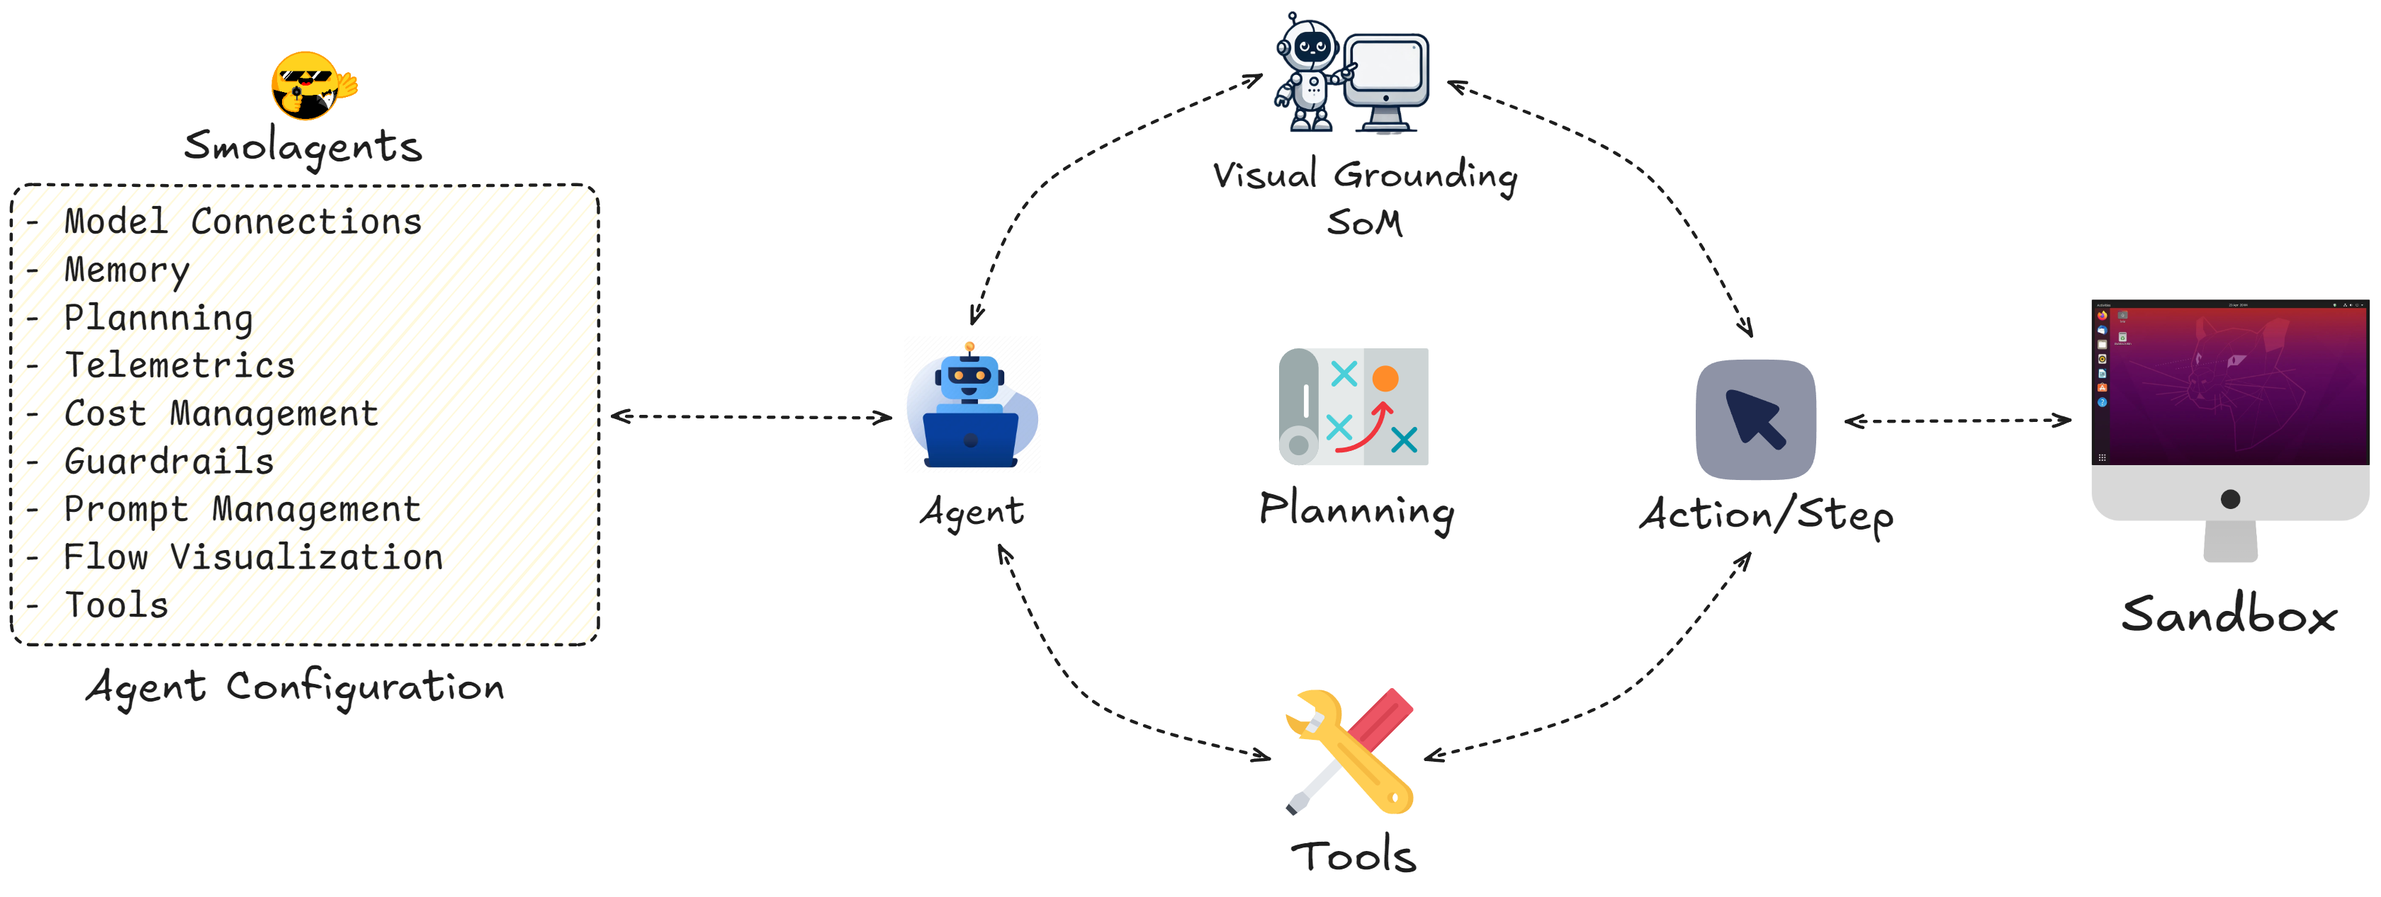
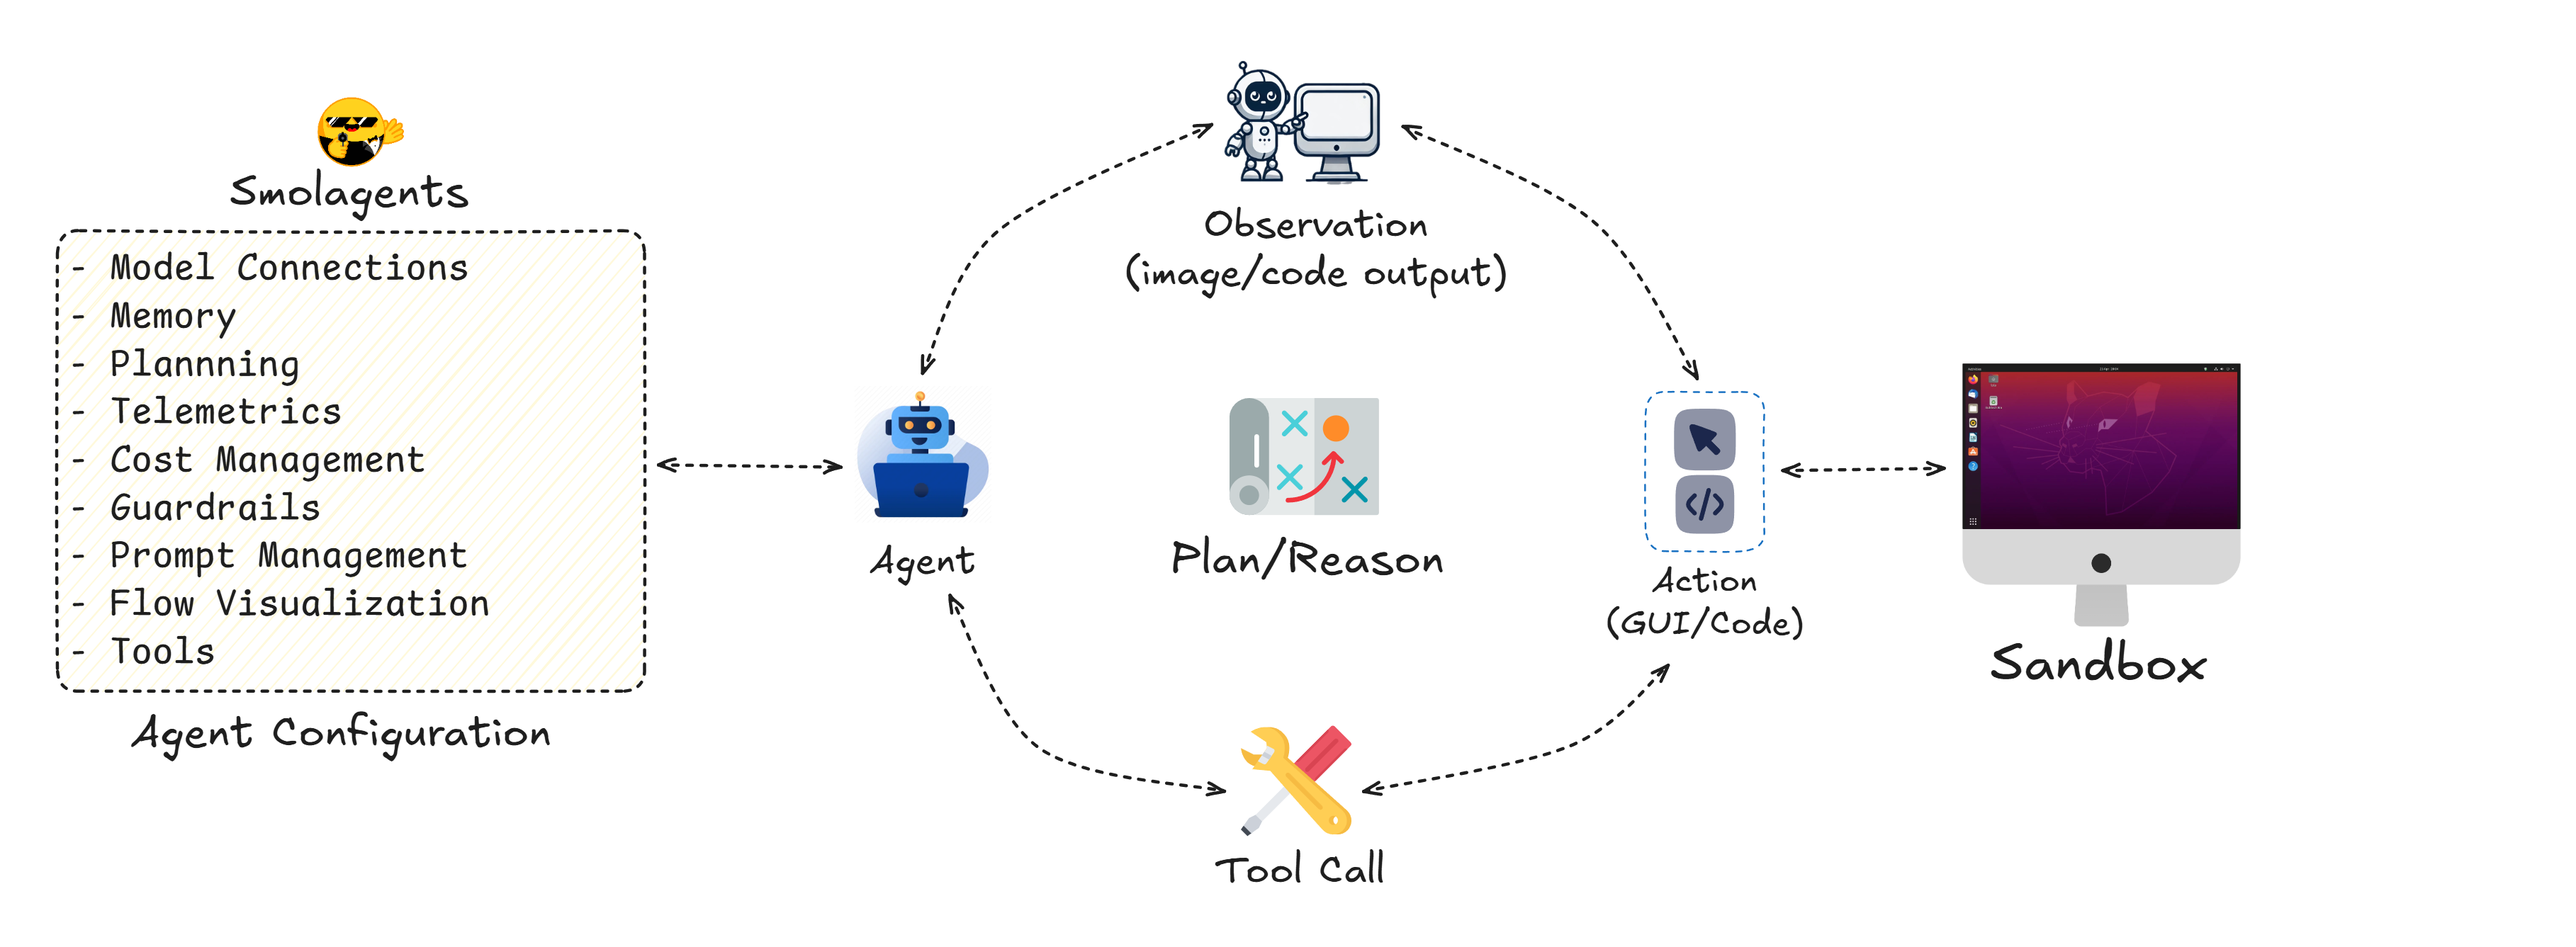
working

diff --git a/README.md b/README.md
@@ -1,40 +1,83 @@
-# Spider2-V: Benchmarking Multimodal Agents in Data Science and Engineering Workflows
+# Enhancing Multimodal GUI AI-Agent Benchmarking
 
-This repository supports work on **[Spider2-V](https://spider2-v.github.io/)**, a benchmark designed to evaluate and advance multimodal agent automation in data science and engineering workflows. Spider2-V focuses on real-world applications within professional data environments, aiming to pave the way for vision-language model (VLM)-based agents to efficiently automate complex tasks across various tools and stages of the data lifecycle.
+[![License: MIT](https://img.shields.io/badge/License-MIT-yellow.svg)](https://github.com/melchiorhering/Automating-DS-DE-Workflows/blob/main/LICENSE) [![Python 3.12+](https://img.shields.io/badge/python-3.12+-blue.svg)](https://www.python.org/) [![Docker](https://img.shields.io/badge/Docker-2496ED?logo=docker&logoColor=white)](https://www.docker.com/) [![FastAPI](https://img.shields.io/badge/FastAPI-009688?logo=fastapi&logoColor=white)](https://fastapi.tiangolo.com/) [![Jupyter](https://img.shields.io/badge/Jupyter-F37626?logo=jupyter&logoColor=white)](https://jupyter.org/) [![Hugging Face](https://img.shields.io/badge/Hugging%20Face-Spaces-yellow)](https://huggingface.co/datasets/melchiorhering/vms)
 
-## Abstract
+This repository contains the source code and experimental setup for **"Enhancing Multimodal GUI AI-Agent Benchmarking,"** a modular, code-centric framework designed to improve upon the foundation of the [Spider2-V benchmark](https://spider2-v.github.io/).
 
-Data science and engineering workflows span diverse stages, from data warehousing to orchestration, utilizing tools such as BigQuery, dbt, and Airbyte. As VLMs gain sophistication in multimodal understanding and code generation, the potential for VLM-based agents to automate these workflows has grown. By generating SQL queries, Python code, and GUI operations, such agents can both enhance expert productivity and democratize large-scale data analysis.
+While powerful benchmarks like Spider2-V provide realistic tasks for evaluating AI agents, their often monolithic designs can hinder research due to poor developer experience (Dev-X), limited observability, and a lack of reproducibility. This framework, built upon the lightweight and code-centric **[Smolagents](https://github.com/huggingface/smolagents)** library, addresses these challenges directly.
 
-**Spider2-V** introduces the first multimodal agent benchmark dedicated to professional data workflows, covering:
+## 🖼 Framework Overview
 
-- **494 tasks** derived from real-world, enterprise use cases within authentic computer environments.
-- **20 enterprise-level applications**, where tasks assess an agent's ability to perform data-centric operations, including code writing and GUI navigation.
+The proposed architecture decouples the agent's logic from the task environment. It uses a stack of modern, open-source tools to create isolated, observable, and reproducible sandboxes for the agent to operate in.
 
-The project balances realistic simulation with evaluation simplicity through:
+![Framework Overview Diagram](media/overview-framework.png)
 
-- Automatic configurations for streamlined task setup.
-- Task-specific metrics to accurately measure performance.
+## ✨ Key Features
 
-Comprehensive documentation supplements multimodal agents for these professional data applications, highlighting the challenges agents face in automating full workflows. Empirical findings reveal that existing VLM agents currently automate only 14.0% of workflows successfully. Even with guidance, these agents struggle with knowledge-intensive GUI actions (16.2% success rate) and tasks within cloud-hosted workspaces (10.6% success rate).
+This framework introduces several key improvements over the baseline implementation:
 
-## Master Thesis Goals
+-   **Powered by Smolagents:** Built on the simple, code-first Smolagents framework, enabling transparent agent logic and easy integration with the broader open-source AI ecosystem (e.g., Hugging Face).
+-   **Modular & Decoupled Architecture:** Built on **Docker**, **QEMU**, and **SSH**, the framework isolates the agent, its tools, and the sandbox environment. Components are hot-swappable, allowing for rapid iteration.
+-   **Flexible Action Space:** The agent isn't locked into rigid primitives. It can dynamically choose between **direct Python code execution** (via a Jupyter Kernel Gateway) for efficiency and **GUI automation** (`pyautogui`) for UI-specific tasks.
+-   **Rich Observability:** Gone are the days of manual debugging in VM snapshots. This framework provides:
+    -   **Live GUI Access:** Monitor the agent in real-time through any web browser using **noVNC**.
+    -   **Structured Logging:** Detailed, step-by-step logs of every action, observation, and thought process.
+    -   **Telemetry:** Compatibility with **OpenTelemetry** for exporting detailed performance metrics.
+-   **Improved Developer Experience (Dev-X):** By leveraging open standards and reducing the core Python codebase by **66%**, the framework is significantly easier to understand, maintain, and extend.
 
-The goals of this master thesis project are:
+## 🚀 Getting Started
 
-1. **Environment Setup:** Configure and deploy an updated benchmarking environment to enable better and flexible testing and evaluation of multimodal agents on the bases of the Spider2-V benchmark.
-   1. Easier integrations with LLM and data toosl
-   2. Adding a vector DB
-2. **Research Contribution:** Once the environment is operational, contribute additional features and capabilities to Spider2-V, advancing the research on automated data science and engineering workflows.
-   1. Try to improve the current scores using better implementations of the current framework or using tools/integrations
-   2. Improve Feedback loop and Agent Validation steps
+Follow these steps to set up the environment and run the benchmark.
 
-## 🛠 Prerequisites
+### 🛠 Prerequisites
 
-Before setting up, ensure you have the following dependencies installed:
+Ensure you have the following dependencies installed on your system:
 
-- **[Python 3.11](https://www.python.org/downloads/release/python-3110/)** - Python!
-- **[UV](https://docs.astral.sh/uv/guides/install-python/)** – A fast Python package manager.
-- **[GIT LFS](https://git-lfs.com/)** - Download large files using GIT
-- **[Direnv](https://direnv.net/)** – Manages environment variables per project.
-- **[MacTeX](https://www.tug.org/mactex/)** - For working locally with LaTex
+-   **[Python (3.12+)](https://www.python.org/downloads/)**: The core programming language.
+-   **[UV](https://github.com/astral-sh/uv)**: A fast Python package installer and resolver, used here to manage dependencies.
+-   **[Direnv](https://direnv.net/)**: A tool to manage project-specific environment variables automatically.
+-   **[Docker](https://www.docker.com/products/docker-desktop/)**: To build and manage the containerized sandbox environments.
+
+### ⚙ Installation
+
+1.  **Clone the repository:**
+    ```bash
+    git clone https://github.com/melchiorhering/Automating-DS-DE-Workflows.git
+    cd Automating-DS-DE-Workflows
+    ```
+
+2.  **Allow Direnv to manage the environment:**
+    ```bash
+    direnv allow
+    ```
+    This will automatically create a virtual environment for you based on the `.envrc` file.
+
+3.  **Install Python dependencies with UV:**
+    ```bash
+    uv sync
+    ```
+    This command reads the `requirements.lock` file and installs the exact versions of all necessary packages into your virtual environment.
+
+## 📈 Usage
+
+### Running the Benchmark Orchestrator
+
+The main entry point for running experiments is the orchestrator script. You can run all tasks sequentially or a specific subset.
+
+```bash
+# Example: Run all tasks defined in the jupyter test index sequentially
+uv run python src/orchestrator.py \
+    --task-index /path/to/your/task_list.json \
+    --tasks-root /path/to/your/task_definitions/ \
+    --results-root /path/to/your/output_directory
+```
+
+Results, logs, and other artifacts for each task run will be saved to the `results/` directory.
+
+### Analyzing Results
+
+The repository includes Python scripts and notebooks to process the generated `summary.json` files, calculate aggregate metrics, and create plots to visualize the results.
+
+## 📄 License
+
+This project is licensed under the MIT License. See the [LICENSE](https://www.google.com/search?q=LICENSE) file for details.
